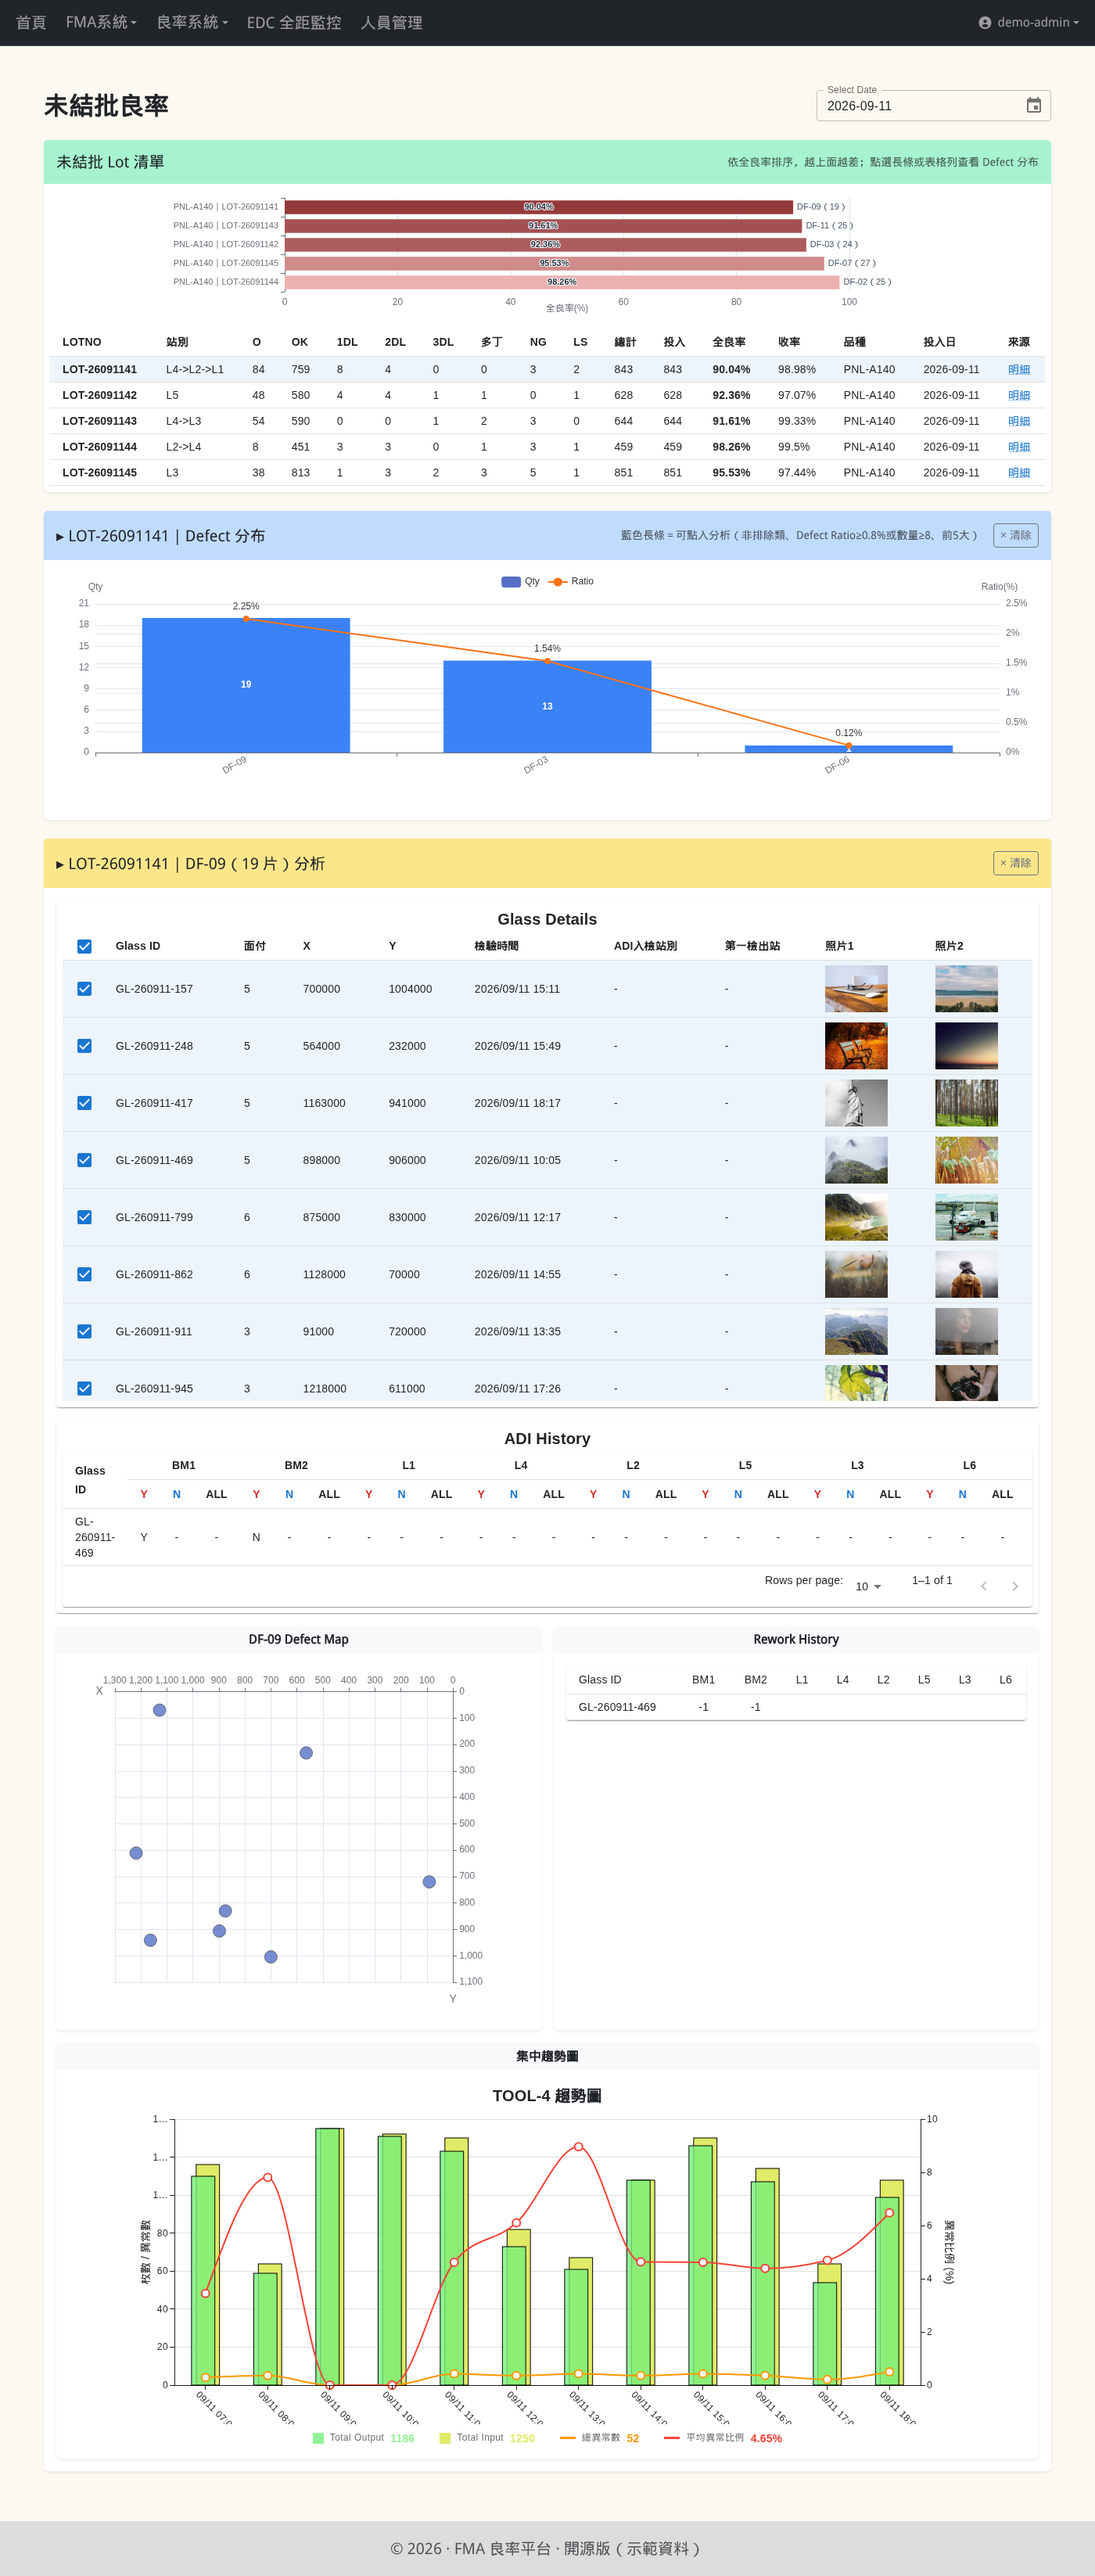
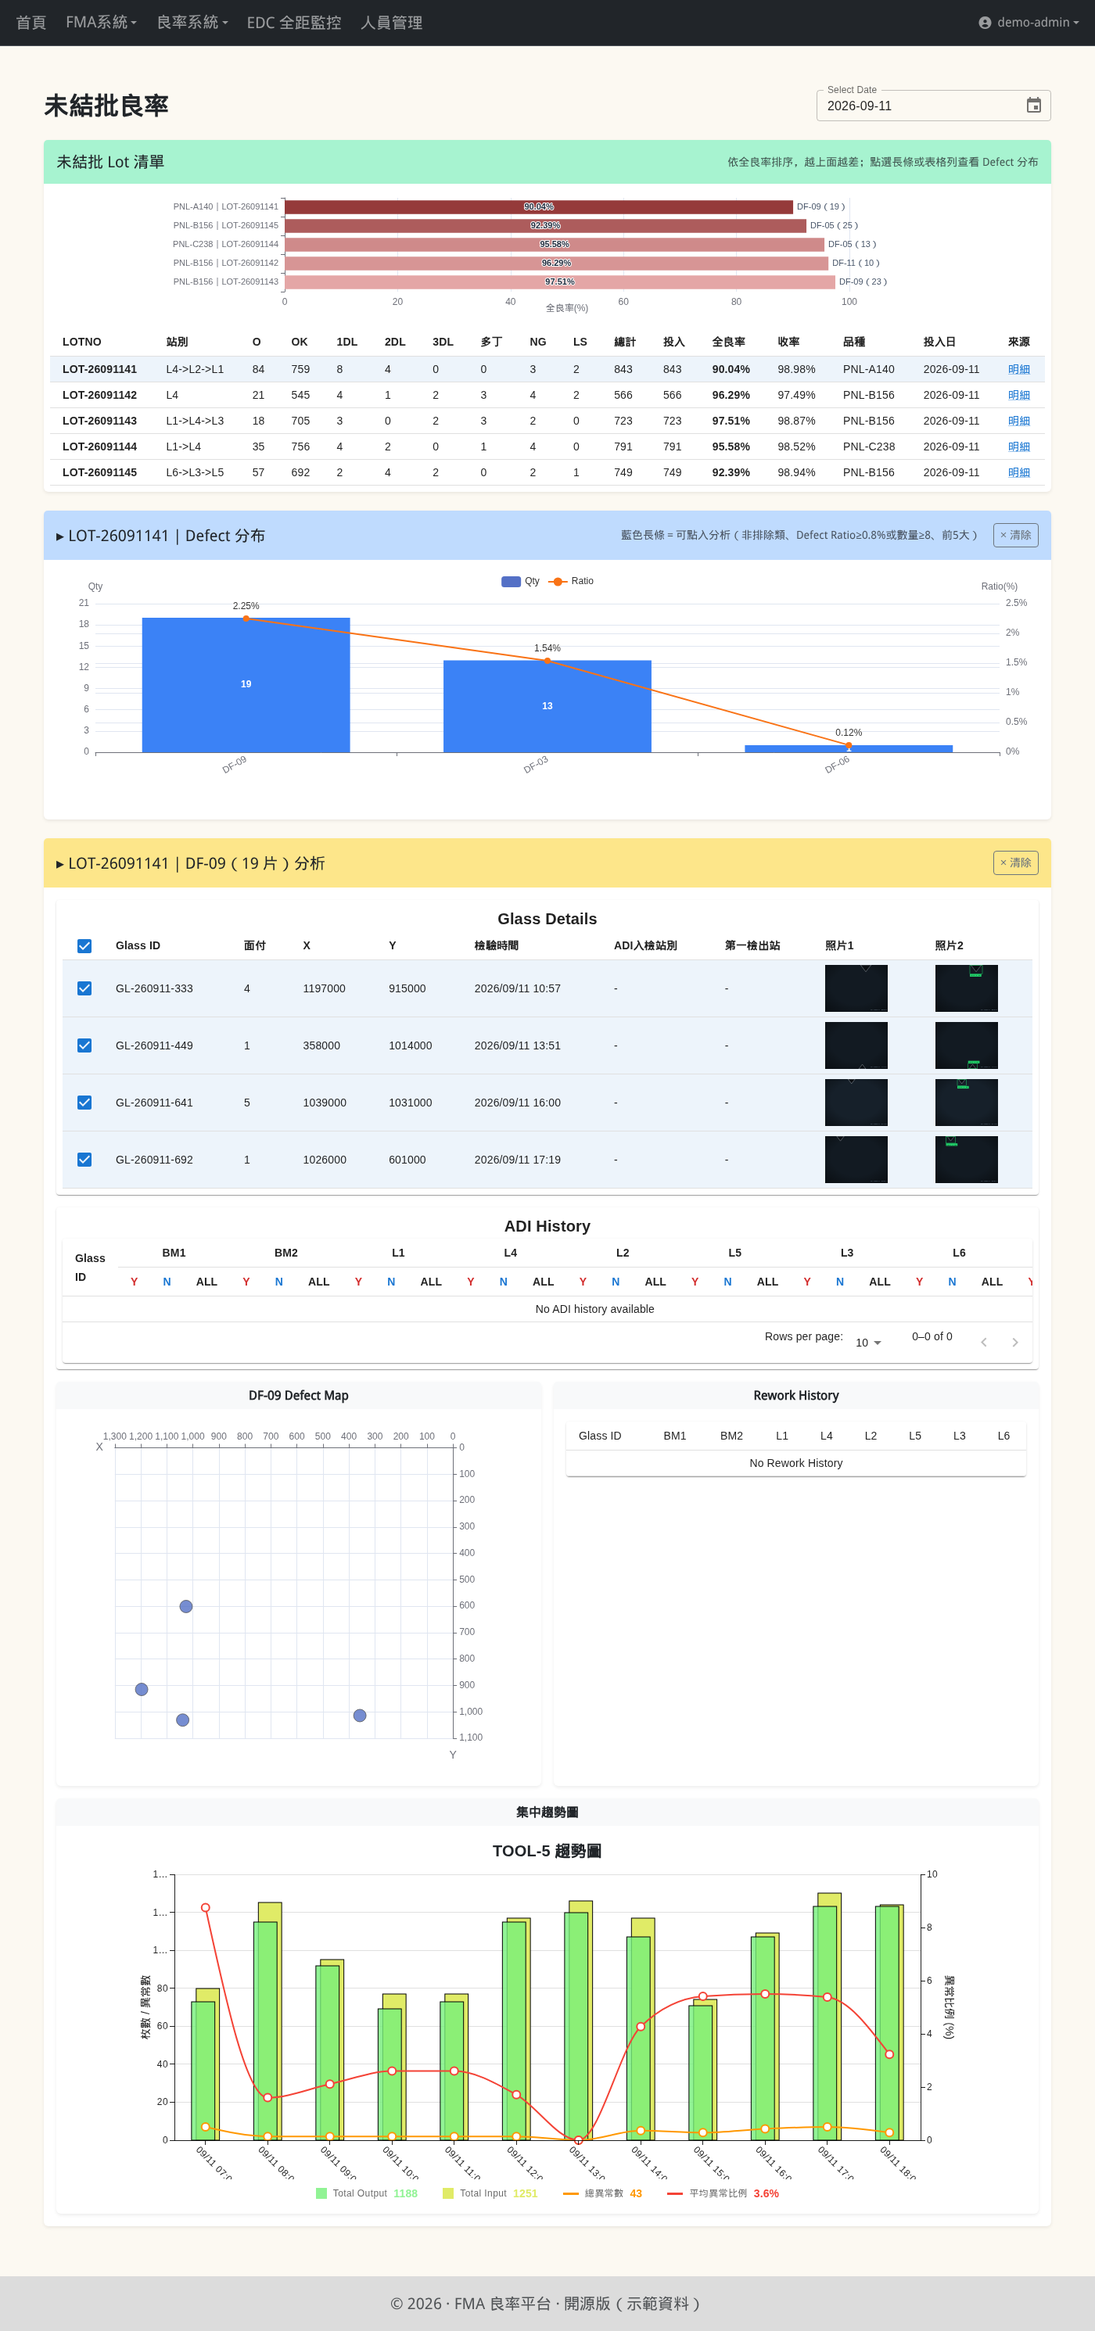
feat(seed): Daily Yield / 未結批照片改用合成瑕疵影像，移除 picsum 依賴
GlassInfo.img/img2 與 unfinish_defect_details.img_url_1/2 原本指向 picsum.photos 隨機風景照，
跟 FMA 的合成 SVG 不一致、離線 clone 會破圖。

- seedAdapter.js：四處 picsum 全換成 renderPair()。照片 1 = 原圖、照片 2 = 帶 bbox 預測圖，
  缺陷類別由 dfcode 反查（defectTypeOf()）與該筆資料一致。resetOutDir() 提到 run() 開頭，
  否則 seedDailyYield() 先畫的圖會被 seedImages() 清掉
- defectImages.js：renderPair() 加 prefix 參數（gi_ / un_），Daily / 未結批 / FMA 三處
  glass id 可能撞名，避免互相覆蓋
- defectImgSrc.js：新增「'/' 開頭且路徑無 media/public marker → 原樣回傳」分支，
  讓 /demo-defects/xxx.svg 不被切成跟著 SPA 路由變動的 './' 相對路徑。
  歷史 Linux 絕對路徑（/home/.../client/media/...）靠有 marker 區分
- defectImgSrc.test.js：+1 根相對路徑測試。順手修掉一個從階段 1 就壞的測試——第一案的 URL
  在搬檔時被 scrub.sed 把內網 IP 整條換成 javascript:void(0)，測試從搬過來就沒跑過
- 重拍 03-daily-yield / 05-unfinish 截圖

已知未處理：未結批 glass 的 ADI / Rework History 為空（seed 只替 Daily Yield 的 glass 建
AdiRecord / ReworkHis，未結批 glass id 隨機對不上），記在 progress.md。

驗證：Daily Yield 20 張 / 未結批 8 張全為 /demo-defects/，picsum 0、破圖 0；
domain 25/25、client 14/14、兩道去識別化 gate 綠。

diff --git a/server/ingestion/seedAdapter.js b/server/ingestion/seedAdapter.js
@@ -45,6 +45,9 @@ function isoWeek(dayStr) {
 }
 const glassId = (day, i) => `GL-${day.replace(/-/g, "").slice(2)}-${pad(i)}`;
 const lotNo = (day, i) => `LOT-${day.replace(/-/g, "").slice(2)}${pad(i)}`;
+// dfcode 可能是 "L3-刮傷"（label）或 "DF-01"（code），反查回 DEFECT_TYPES 那一筆；找不到就隨機
+const defectTypeOf = (dfcode, rng) =>
+  DEFECT_TYPES.find((d) => dfcode.endsWith(d.label) || dfcode === d.code) || rng.pick(DEFECT_TYPES);
 
 // ── Daily Yield ───────────────────────────────────────────────────────────
 async function seedDailyYield(day, seedBase) {
@@ -108,8 +111,8 @@ async function seedDailyYield(day, seedBase) {
         gid, xpos: rng.int(0, 1300) * 1000, ypos: rng.int(0, 1100) * 1000,
         inspectstops: inspect, dfcode: rgb.dfcode, week: `W${isoWeek(day)}`,
         month: dayjs(day).month() + 1, firststop: firstStop,
-        img: `https://picsum.photos/seed/${gid}a/240/180`,
-        img2: `https://picsum.photos/seed/${gid}b/240/180`,
+        // 照片 1 = 原圖、照片 2 = 帶 bbox 的預測圖，缺陷類別與這筆 dfcode 一致
+        ...(() => { const im = renderPair(gid, g, rng, [defectTypeOf(rgb.dfcode, rng)], "gi_"); return { img: im.ori, img2: im.pred }; })(),
         rgbtopfive_id: rgb.id, pdamtable_id: pdam.id,
         ovenslot_id: oven.id, reworkhis_id: rework.id,
         adirecord_id: adi ? adi.id : null,
@@ -212,19 +215,23 @@ async function seedUnfinish(day, seedBase) {
     }));
     const detailsByCode = {};
     for (const d of defects.filter((x) => x.detail_code)) {
-      detailsByCode[d.detail_code] = Array.from({ length: rng.int(3, 10) }, (_, k) => ({
-        glassid: glassId(day, rng.int(1, 999)),
-        p_no: String(rng.int(1, 6)),
-        defect_name: d.defectcode,
-        x: String(rng.int(0, 1300) * 1000), y: String(rng.int(0, 1100) * 1000), // μm，同 GlassInfo
-        defect_group: `G${rng.int(1, 4)}`,
-        product: lotRow.product,
-        tedt: `${dayjs(day).format("YYYY/MM/DD")} ${pad(rng.int(8, 18))}:${pad(rng.int(0, 59))}`,
-        img_url_1: `https://picsum.photos/seed/unf${d.detail_code}${k}a/240/180`,
-        img_url_2: `https://picsum.photos/seed/unf${d.detail_code}${k}b/240/180`,
-        inspectstops: rng.shuffle(STATIONS_9).slice(0, 3).join(","),
-        firststop: rng.pick(STATIONS_9),
-      }));
+      detailsByCode[d.detail_code] = Array.from({ length: rng.int(3, 10) }, (_, k) => {
+        const glassid = glassId(day, rng.int(1, 999));
+        // 照片 1 = 原圖、照片 2 = 帶 bbox 的預測圖，缺陷類別與 defectcode 一致；檔名帶 glassid 對得上這一列
+        const im = renderPair(glassid, k, rng, [defectTypeOf(d.defectcode, rng)], `un_${d.detail_code}_`);
+        return {
+          glassid,
+          p_no: String(rng.int(1, 6)),
+          defect_name: d.defectcode,
+          x: String(rng.int(0, 1300) * 1000), y: String(rng.int(0, 1100) * 1000), // μm，同 GlassInfo
+          defect_group: `G${rng.int(1, 4)}`,
+          product: lotRow.product,
+          tedt: `${dayjs(day).format("YYYY/MM/DD")} ${pad(rng.int(8, 18))}:${pad(rng.int(0, 59))}`,
+          img_url_1: im.ori, img_url_2: im.pred,
+          inspectstops: rng.shuffle(STATIONS_9).slice(0, 3).join(","),
+          firststop: rng.pick(STATIONS_9),
+        };
+      });
     }
     const { defectIdByCode } = await replaceUnfinishLot({ lotRow, day, defects, detailsByCode });
 
@@ -290,8 +297,6 @@ async function seedImages(day, seedBase, gids) {
   const rows = [];
   const smlRows = [];
 
-  resetOutDir(); // 每次 seed 重畫，不累積舊檔
-
   const lineToAoi = (ln) => `AOI-0${ln.slice(1)}`;
 
   for (const entry of gids) {
@@ -339,6 +344,7 @@ async function seedImages(day, seedBase, gids) {
  * @type {import('./adapter').IngestionAdapter['run']}
  */
 async function run(opts = {}) {
+  resetOutDir(); // demo 影像每次 seed 重畫，不累積舊檔（Daily / 未結批 / FMA 三處都寫到同一個資料夾）
   const days = recentWeekdays(15);
   const result = { dailyYield: 0, unfinishLots: 0, edcRecords: 0, eqActions: 0, images: 0 };
 

diff --git a/client/src/components/yield-system/utils/defectImgSrc.js b/client/src/components/yield-system/utils/defectImgSrc.js
@@ -2,7 +2,8 @@
 //
 // GlassInfo.img / img2 有兩種來源，同一張表裡新舊資料會並存：
 //   1. 外部影像伺服器的直連 URL（'http://...'），不下載到本機
-//   2. 之前的歷史資料：爬蟲存檔時的**本機絕對路徑**，含 Windows 反斜線
+//   2. 根相對路徑（'/demo-defects/...'）：server 的 express.static 直接服務，demo 合成影像
+//   3. 之前的歷史資料：爬蟲存檔時的**本機絕對路徑**，含 Windows 反斜線
 //      （圖片實體又曾從 client/public 搬到 client/media，所以 marker 有兩種）
 // 未結批（UnfinishDefectDetail.img_url_1/2）一律是第 1 種，可以直接用不必經過這裡。
 
@@ -22,9 +23,17 @@ export function resolveDefectImgSrc(raw) {
   // 否則 'http://...' 會被 split('public') 切爛。
   if (/^https?:\/\//i.test(v)) return v;
 
+  const normalized = v.replaceAll('\\', '/');
+  const hasMarker = normalized.includes('media') || normalized.includes('public');
+
+  // 根相對路徑（'/' 開頭、路徑裡沒有 media/public marker）：由 server 的 express.static
+  // 直接服務，原樣使用。demo 的合成瑕疵影像（/demo-defects/xxx.svg）就是這種；
+  // 不能走下面的 marker 切割，否則會被組成 './demo-defects/...' 這種跟著 SPA 路由變動的相對路徑。
+  // ⚠ 歷史的 Linux 絕對路徑（/home/.../client/media/...）也是 '/' 開頭，靠「有 marker」區分。
+  if (normalized.startsWith('/') && !hasMarker) return v;
+
   // 歷史資料：取 media（新）或 public（舊）marker 之後的尾巴組相對 URL，
   // 由 server/index.js 的 express.static(client/media) + (client/public) 服務，DB 免 migration。
-  const normalized = v.replaceAll('\\', '/');
   const marker = normalized.includes('media') ? 'media' : 'public';
   const tail = normalized.split(marker)[1] || normalized;
 

diff --git a/server/seed/defectImages.js b/server/seed/defectImages.js
@@ -200,10 +200,12 @@ function stamp(gid, idx) {
  * @param {number} idx            同一片 glass 的第幾張
  * @param {object} rng            seed/rng.js 的 rng
  * @param {object[]} defectTypes  這張圖上有哪些缺陷（1~2 個，展示單張多 detection）
+ * @param {string} [prefix=""]    檔名前綴。FMA 影像不加；Daily Yield / 未結批的 glass 可能與 FMA
+ *                                撞 gid，各自加 "gi_" / "un_" 避免互相覆蓋
  * @returns {{ ori: string, pred: string, detections: {class:string,confidence:number,bbox:number[]}[] }}
- *          ori/pred 為可直接放進 <img src> 的路徑
+ *          ori/pred 為可直接放進 <img src> 的根相對路徑（由 express.static(client/media) 服務）
  */
-function renderPair(gid, idx, rng, defectTypes) {
+function renderPair(gid, idx, rng, defectTypes, prefix = "") {
   const list = Array.isArray(defectTypes) ? defectTypes : [defectTypes];
   const bg = background(rng);
 
@@ -241,7 +243,7 @@ function renderPair(gid, idx, rng, defectTypes) {
     .join("");
   const predSvg = wrap(`${bg}${allMarks}${overlays}${stamp(gid, idx)}`);
 
-  const base = `${gid}_${idx}`;
+  const base = `${prefix}${gid}_${idx}`;
   fs.writeFileSync(path.join(OUT_DIR, `${base}_ori.svg`), oriSvg);
   fs.writeFileSync(path.join(OUT_DIR, `${base}_pred.svg`), predSvg);
 

diff --git a/client/src/components/yield-system/utils/defectImgSrc.test.js b/client/src/components/yield-system/utils/defectImgSrc.test.js
@@ -2,10 +2,17 @@ import { resolveDefectImgSrc } from './defectImgSrc';
 
 describe('resolveDefectImgSrc', () => {
   test('外部直連 URL 原樣回傳，不可被 media/public marker 切割', () => {
-    const url = 'javascript:void(0)';
+    const url = 'http://image-server.example.com:8888/IMAGE/2026/08/ABC123_1.jpg';
     expect(resolveDefectImgSrc(url)).toBe(url);
     expect(resolveDefectImgSrc('https://example.com/a/public/b.jpg'))
       .toBe('https://example.com/a/public/b.jpg');
+  });
+
+  test('根相對路徑（/ 開頭、由 express.static 直接服務）原樣回傳——demo 合成影像就是這種', () => {
+    expect(resolveDefectImgSrc('/demo-defects/gi_GL-260911-145_3_ori.svg'))
+      .toBe('/demo-defects/gi_GL-260911-145_3_ori.svg');
+    // 不可誤判成歷史路徑去切 marker：路徑裡沒有 media/public 也不能補 .jpg
+    expect(resolveDefectImgSrc('/images/2026/abc')).toBe('/images/2026/abc');
   });
 
   test('新的本機路徑（media marker）取尾巴組相對 URL', () => {

diff --git a/docs/dev/progress.md b/docs/dev/progress.md
@@ -176,6 +176,21 @@ Daily Yield 與未結批兩張 map 同一根因。
 **修法**：只改 seed 兩行 `× 1000`（`GlassInfo.xpos/ypos`、`unfinish_defect_details.x/y`），前端不動。
 `imagetb.xpos`（FMA Label 表格直接顯示）不改。單位契約已寫進 `docs/ingestion.md`「欄位單位與格式」。
 
+## Daily Yield / 未結批照片改用合成影像（2026-09-11）
+
+- `GlassInfo.img/img2` 與 `unfinish_defect_details.img_url_1/2` 原本指向 `picsum.photos` 隨機風景照，
+  跟 FMA 的合成 SVG 不一致、離線 clone 會破圖。改用 `renderPair()`：照片 1 = 原圖、照片 2 = 帶 bbox 預測圖，
+  缺陷類別由 `dfcode` 反查（`defectTypeOf()`）與該筆資料一致。`renderPair()` 加 `prefix` 參數
+  （`gi_` / `un_`）避免三處 glass id 撞名互相覆蓋；`resetOutDir()` 提到 `run()` 開頭
+- `defectImgSrc.js` 新增「`/` 開頭且無 `media`/`public` marker → 原樣回傳」分支，讓 `/demo-defects/xxx.svg`
+  不被切成跟著 SPA 路由變的 `./` 相對路徑。歷史 Linux 絕對路徑靠 marker 區分
+- **順手修掉一個從階段 1 就壞的測試**：`defectImgSrc.test.js` 第一案的 URL 在搬檔時被 `scrub.sed`
+  把內網 IP 整條換成 `javascript:void(0)`，測試從搬過來就沒跑過。改成合法外部 URL；client 測試 14/14
+- seed 後 `client/media/demo-defects/` 共 4,866 個 SVG、39MB（.gitignore 排除）
+
+**已知、未處理**：未結批 glass 的 ADI / Rework History 為空——seed 只替 Daily Yield 的 glass 建
+`AdiRecord` / `ReworkHis`，未結批 glass id 隨機、對不上。
+
 ## 下一步
 
 - [ ] **階段 5**：README（目前仍是 22 行「🚧 建置中」佔位）+ 架構圖 + CONTRIBUTING
